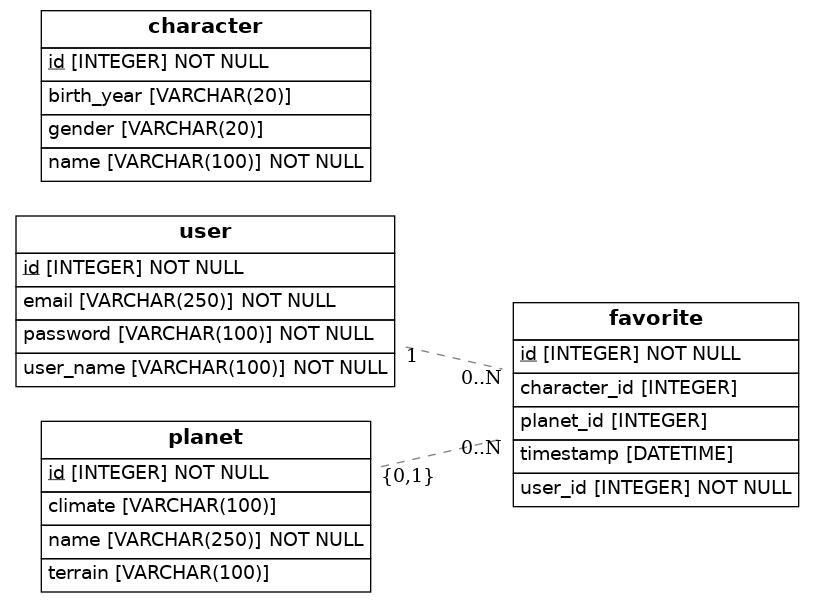
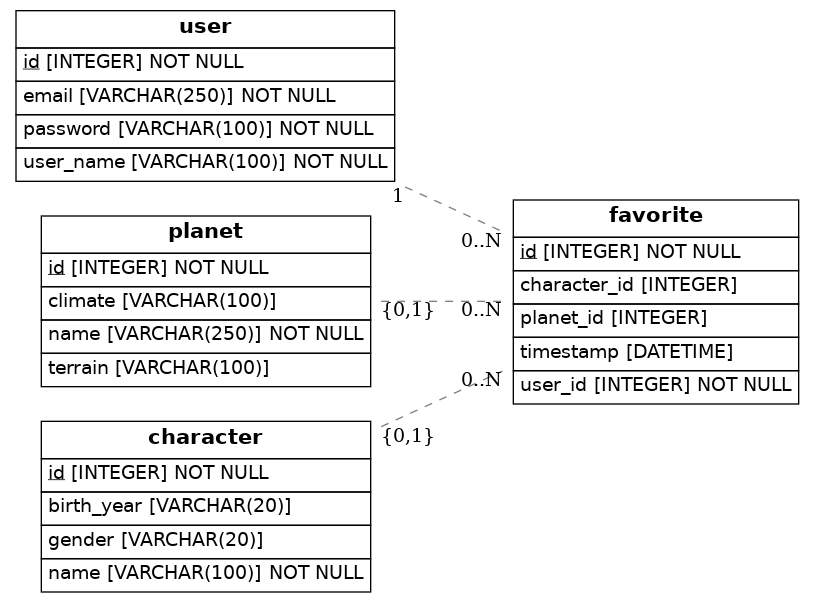
Terminado

diff --git a/src/models.py b/src/models.py
@@ -1,6 +1,6 @@
 import os
 import sys
-from sqlalchemy import Column, ForeignKey, Integer, String,DateTime
+from sqlalchemy import Column, ForeignKey, Integer, String, DateTime
 from sqlalchemy.orm import relationship, declarative_base
 from sqlalchemy import create_engine
 from eralchemy2 import render_er
@@ -10,47 +10,42 @@ Base = declarative_base()
 
 class User(Base):
     __tablename__ = 'user'
-    # Here we define columns for the table person
-    # Notice that each column is also a normal Python instance attribute.
     id = Column(Integer, primary_key=True)
     user_name = Column(String(100), nullable=False)
     password = Column(String(100), nullable=False)
-    email= Column(String(250) ,nullable=False)
+    email = Column(String(250), nullable=False)
 
-    favorites = relationship('Favorite', back_populates='user')
+    favorite = relationship('Favorite', back_populates='user')
 
 class Planet(Base):
     __tablename__ = 'planet'
-    # Here we define columns for the table address.
-    # Notice that each column is also a normal Python instance attribute.
     id = Column(Integer, primary_key=True)
     name = Column(String(250), nullable=False)
     climate = Column(String(100))
     terrain = Column(String(100))
 
-    favorites = relationship('Favorite', back_populates='planet')
+    favorite = relationship('Favorite', back_populates='planet')
 
 class Character(Base):
     __tablename__ = 'character'
-    id = Column(Integer,primary_key=True)
+    id = Column(Integer, primary_key=True)
     name = Column(String(100), nullable=False)
     birth_year = Column(String(20))
     gender = Column(String(20))
 
-    favorites = relationship('Favorite', back_populates='character')
+    favorite = relationship('Favorite', back_populates='character')
 
 class Favorite(Base):
     __tablename__ = 'favorite'
     id = Column(Integer, primary_key=True)
-    user_id=Column(Integer, ForeignKey('user.id'),nullable=False)
-    planet_id=Column(Integer, ForeignKey('planet.id'))
-    character_id=Column(Integer, ForeignKey('character_id'))
-    timestamp= Column(DateTime(timezone=True),server_default=func.now())
+    user_id = Column(Integer, ForeignKey('user.id'), nullable=False)
+    planet_id = Column(Integer, ForeignKey('planet.id'))
+    character_id = Column(Integer, ForeignKey('character.id'))
+    timestamp = Column(DateTime(timezone=True), server_default=func.now())
 
-    user = relationship(User, back_populates='favorites')
-    planet = relationship(Planet, back_populates='favorites')
-    character = relationship(Character,  back_populates='favorites')
-
+    user = relationship('User', back_populates='favorite')
+    planet = relationship('Planet', back_populates='favorite')
+    character = relationship('Character', back_populates='favorite')
 
 ## Draw from SQLAlchemy base
 render_er(Base, 'diagram.png')
